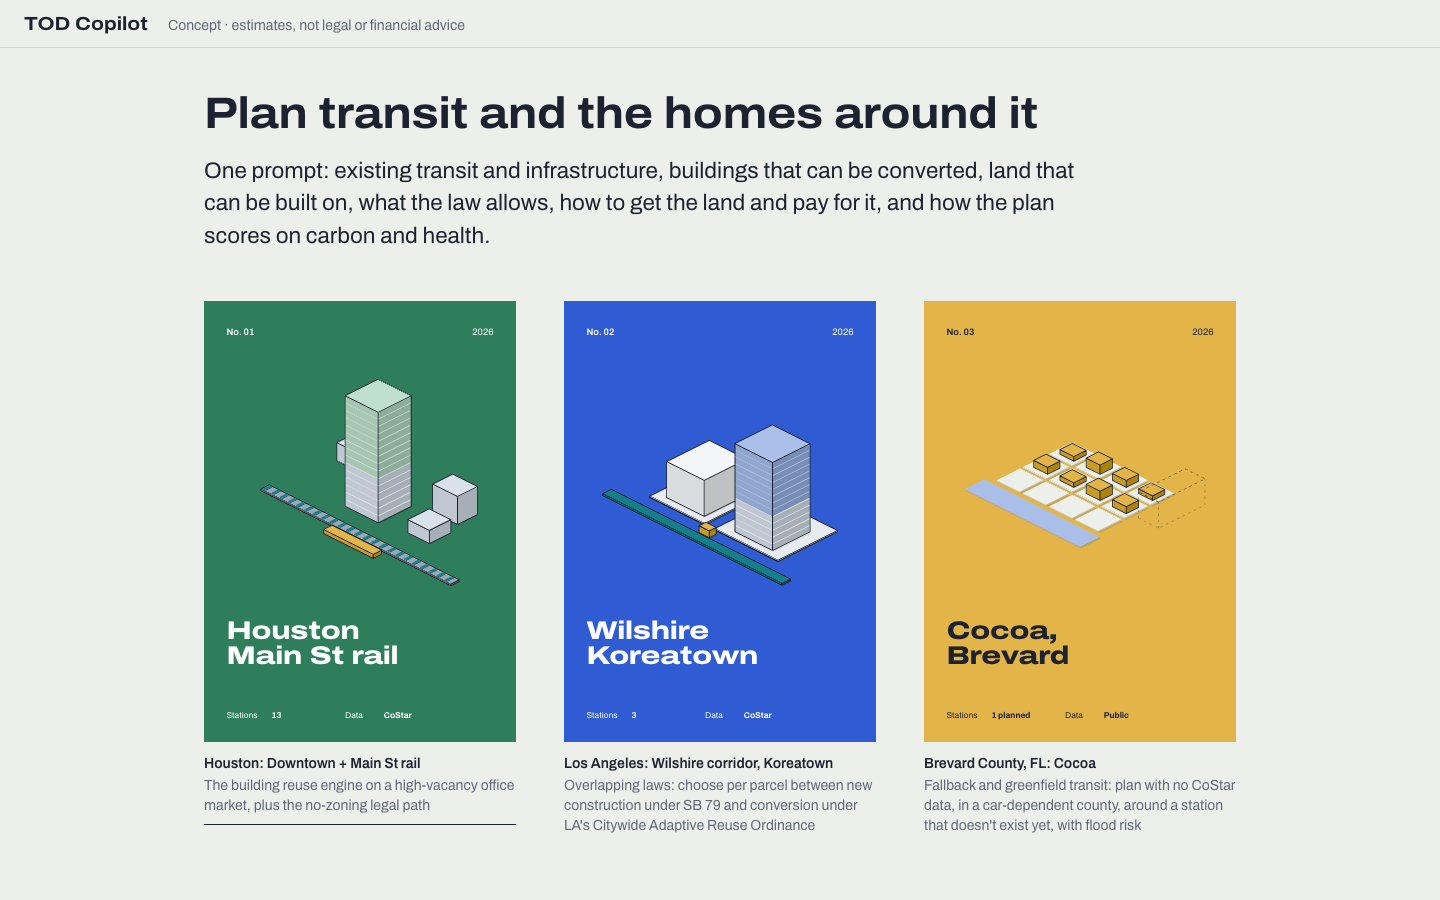
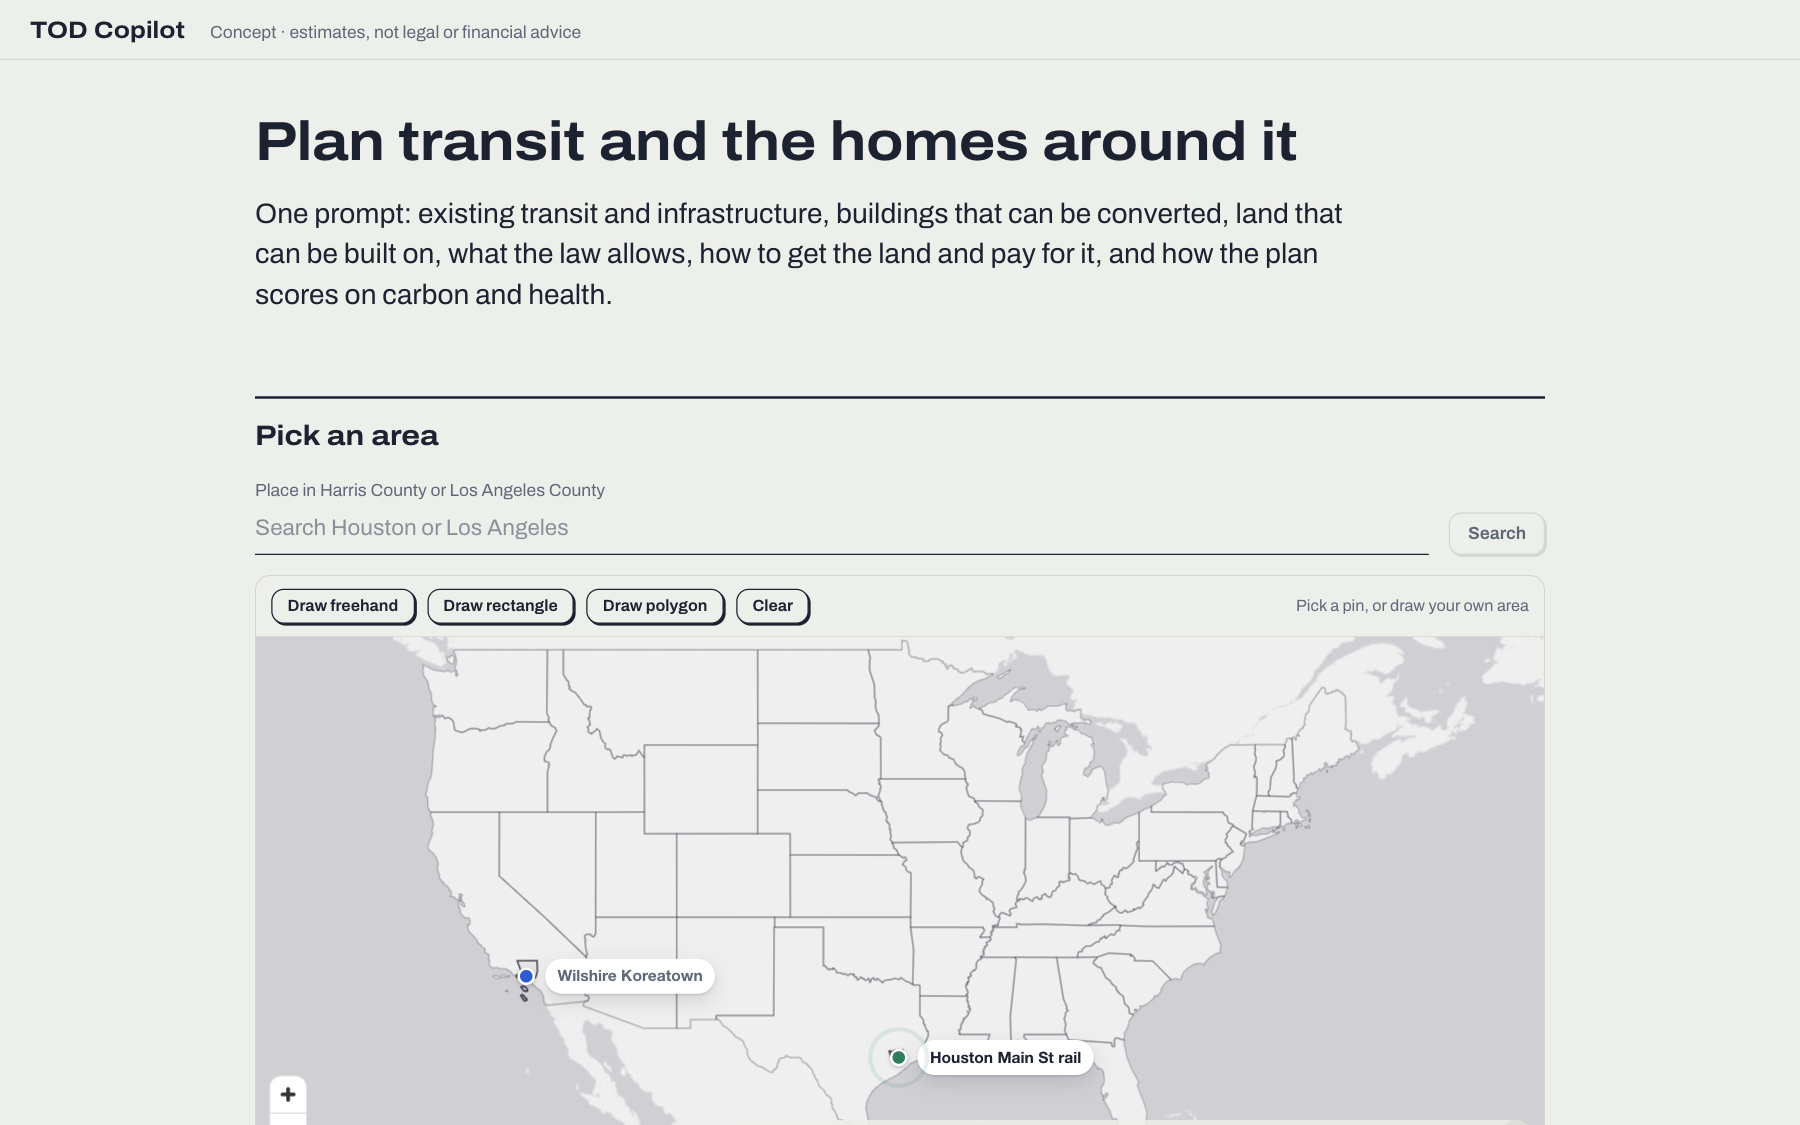
UI: remove the three locale poster cards from the landing page
- Areas are picked on the map (pins, search, drawing); the section is now "Pick an area".
- LocalePosters.tsx is gone; AreaPicker keeps the pin colours and short names itself.
- Brevard has no pin, so the landing page no longer picks it; /plan/demo-brevard_cocoa?replay=1 still opens its recorded run.

diff --git a/frontend/src/screens/PromptScreen.tsx b/frontend/src/screens/PromptScreen.tsx
@@ -3,7 +3,6 @@ import { useNavigate } from 'react-router-dom'
 import { areaCheck, createPlan, geocode, getLocales, parsePrompt, stockPrompts } from '../api'
 import Disclaimer from '../components/Disclaimer'
 import AreaPicker, { type PolygonGeometry } from '../components/AreaPicker'
-import { LocalePoster } from '../components/LocalePosters'
 import Segmented from '../components/Segmented'
 import Slider from '../components/Slider'
 import { useApp } from '../state/AppContext'
@@ -58,7 +57,6 @@ export default function PromptScreen() {
   const [replay, setReplay] = useState(true)
   const [submitting, setSubmitting] = useState(false)
   const parseSeq = useRef(0)
-  const mapBoxRef = useRef<HTMLDivElement>(null)
   const { factorNumber } = useApp()
 
   useEffect(() => {
@@ -131,13 +129,6 @@ export default function PromptScreen() {
     setAreaName(null)
     const l = locales?.find((x) => x.id === id)
     if (l) setFlyTo([...l.bbox])
-  }
-
-  // A poster click picks the area and brings the map into view, where it flies to that area.
-  const pickPoster = (id: string) => {
-    pickLocale(id)
-    const reduce = window.matchMedia('(prefers-reduced-motion: reduce)').matches
-    mapBoxRef.current?.scrollIntoView({ behavior: reduce ? 'auto' : 'smooth', block: 'center' })
   }
 
   // The sliders show real numbers: the locale's transit budget times the multiplier (just the multiplier until a
@@ -218,28 +209,7 @@ export default function PromptScreen() {
           </p>
           {error && <p className="mb-6 border-l-2 border-gap pl-4 text-gap">{error}</p>}
 
-          <div className="grid grid-cols-1 gap-12 md:grid-cols-3">
-            {!locales && !error && <p className="text-slate">Loading locales…</p>}
-            {locales?.map((l, i) => {
-              const on = areaLocaleId === l.id
-              return (
-                <button
-                  key={l.id}
-                  onClick={() => pickPoster(l.id)}
-                  aria-pressed={on}
-                  className="group flex flex-col justify-start text-left"
-                >
-                  <LocalePoster locale={l} index={i} />
-                  <span className={`mt-3 block border-b pb-2 text-sm ${on ? 'border-ink' : 'border-transparent group-hover:border-rule'}`}>
-                    <span className="font-semibold">{l.name}</span>
-                    <span className="mt-0.5 block text-slate">{l.purpose}</span>
-                  </span>
-                </button>
-              )
-            })}
-          </div>
-
-          <SectionHead>Or search and draw an area</SectionHead>
+          <SectionHead>Pick an area</SectionHead>
           <form
             className="relative mb-4 flex items-end gap-4"
             onSubmit={(e) => {
@@ -278,7 +248,7 @@ export default function PromptScreen() {
             )}
           </form>
 
-          <div ref={mapBoxRef} className="scroll-mt-6 overflow-hidden rounded-[12px] border border-rule">
+          <div className="overflow-hidden rounded-[12px] border border-rule">
             <AreaPicker
               locales={locales ?? []}
               selectedLocale={selected}

diff --git a/frontend/src/components/AreaPicker.tsx b/frontend/src/components/AreaPicker.tsx
@@ -4,7 +4,6 @@ import { TerraDraw, TerraDrawFreehandLineStringMode, TerraDrawPolygonMode, Terra
 import { TerraDrawMapLibreGLAdapter } from 'terra-draw-maplibre-gl-adapter'
 import { metros } from '../api'
 import { BASE_STYLE } from './MapView'
-import { localeColor, localeShortName } from './LocalePosters'
 import type { Locale } from '../types'
 import type { BBox } from '../geo'
 
@@ -34,8 +33,14 @@ const US_LIMIT: [[number, number], [number, number]] = [
   [-55, 56],
 ]
 const DRAW_STYLE = { fillColor: '#2F5BD3', fillOpacity: 0.1, outlineColor: '#1C2230', outlineWidth: 2 } as const
-// Recorded areas left off this map (no pin, no outline); their poster cards still pick them.
+// Recorded areas left off this map (no pin, no outline).
 const NOT_ON_MAP: Record<string, true> = { brevard_cocoa: true }
+// Pin colour and short name per recorded area; others get blue and their full name.
+const PIN: Record<string, { color: string; name: string }> = {
+  houston_downtown: { color: '#2E7D5B', name: 'Houston Main St rail' },
+  la_wilshire_koreatown: { color: '#2F5BD3', name: 'Wilshire Koreatown' },
+}
+const pinColor = (id: string) => PIN[id]?.color ?? '#2F5BD3'
 // Esri's canvas land colour. The base tiles print country and state names (e.g. "UNITED STATES") through z7.
 const BASE_LAND = '#EFEFEF'
 
@@ -46,7 +51,7 @@ function localeOutlines(locales: Locale[], selected: string | null): GeoJSON.Fea
       const [w, s, e, n] = l.bbox
       return {
         type: 'Feature',
-        properties: { id: l.id, color: localeColor(l.id), width: l.id === selected ? 2.5 : 1.5, fill: l.id === selected ? 0.1 : 0.05 },
+        properties: { id: l.id, color: pinColor(l.id), width: l.id === selected ? 2.5 : 1.5, fill: l.id === selected ? 0.1 : 0.05 },
         geometry: {
           type: 'Polygon',
           coordinates: [
@@ -213,7 +218,7 @@ export default function AreaPicker({ locales, selectedLocale, boundary, onBounda
     ;(map.getSource('locales') as GeoJSONSource | undefined)?.setData(localeOutlines(shown, selectedLocale))
     const markers = shown.map((l) => {
       const on = l.id === selectedLocale
-      const color = localeColor(l.id)
+      const color = pinColor(l.id)
       const el = document.createElement('button')
       el.type = 'button'
       el.className = 'flex items-center gap-2 cursor-pointer'
@@ -230,7 +235,7 @@ export default function AreaPicker({ locales, selectedLocale, boundary, onBounda
       }
       const name = document.createElement('span')
       name.className = `rounded-full bg-white px-2.5 py-1 text-[12.5px] whitespace-nowrap shadow-[0_1px_2px_rgb(28_34_48/.15),0_6px_16px_rgb(28_34_48/.14)] transition-transform hover:-translate-y-px ${on ? 'font-bold text-ink' : 'font-semibold text-slate'}`
-      name.textContent = localeShortName(l)
+      name.textContent = PIN[l.id]?.name ?? l.name
       el.append(dot, name)
       el.addEventListener('click', (ev) => {
         ev.stopPropagation()

diff --git a/docs/06-frontend.md b/docs/06-frontend.md
@@ -4,7 +4,7 @@ Vite + React + TypeScript, MapLibre GL JS with deck.gl layers, Tailwind. Dark th
 
 ## Screens
 
-1. **Prompt:** three locale cards, each with its name, data tier badge (CoStar full / Public only) and its one-sentence purpose from `docs/11-test-locales.md`; clicking one scrolls to the map and flies to that area. The map is held to the lower 48 states and draws state lines (US Census Bureau; `frontend/public/geo/us-states.geojson`, built by `scripts/build_us_reference.py`); below zoom 8 the states are filled with the base's land colour so the base tiles' country and state names don't show. Houston and LA show as pins in their card's colour (Brevard has no pin or outline; its card still picks it); areas are drawn freehand (traced as an open line while the button is held, closed into a polygon on release, as on Zillow), as a rectangle (press, drag, release) or as a polygon (click corners). A text box, Focus (segmented control), transit budget and affordable-homes sliders in real units ($/yr from the locale's `transit_budget_usd`; % of homes), and "Plan it." Header note: "Concept · estimates, not legal or financial advice."
+1. **Prompt:** an area map with a place search above it. The map is held to the lower 48 states and draws state lines (US Census Bureau; `frontend/public/geo/us-states.geojson`, built by `scripts/build_us_reference.py`); below zoom 8 the states are filled with the base's land colour so the base tiles' country and state names don't show. Houston and LA are pins; clicking one picks that recorded area (Brevard has no pin, so the landing page cannot pick it). Areas are drawn freehand (traced as an open line while the button is held, closed into a polygon on release, as on Zillow), as a rectangle (press, drag, release) or as a polygon (click corners). A text box, Focus (segmented control), transit budget and affordable-homes sliders in real units ($/yr from the locale's `transit_budget_usd`; % of homes), and "Plan it." Header note: "Concept · estimates, not legal or financial advice."
 2. **Plan view (main):**
    - Left column (30% by default, resizable with a draggable divider, kept per browser): agent checklist (8 rows: pending / running / done / error), then a detail card for the selected agent.
    - Right: map, full height, with a layer toggle panel.
